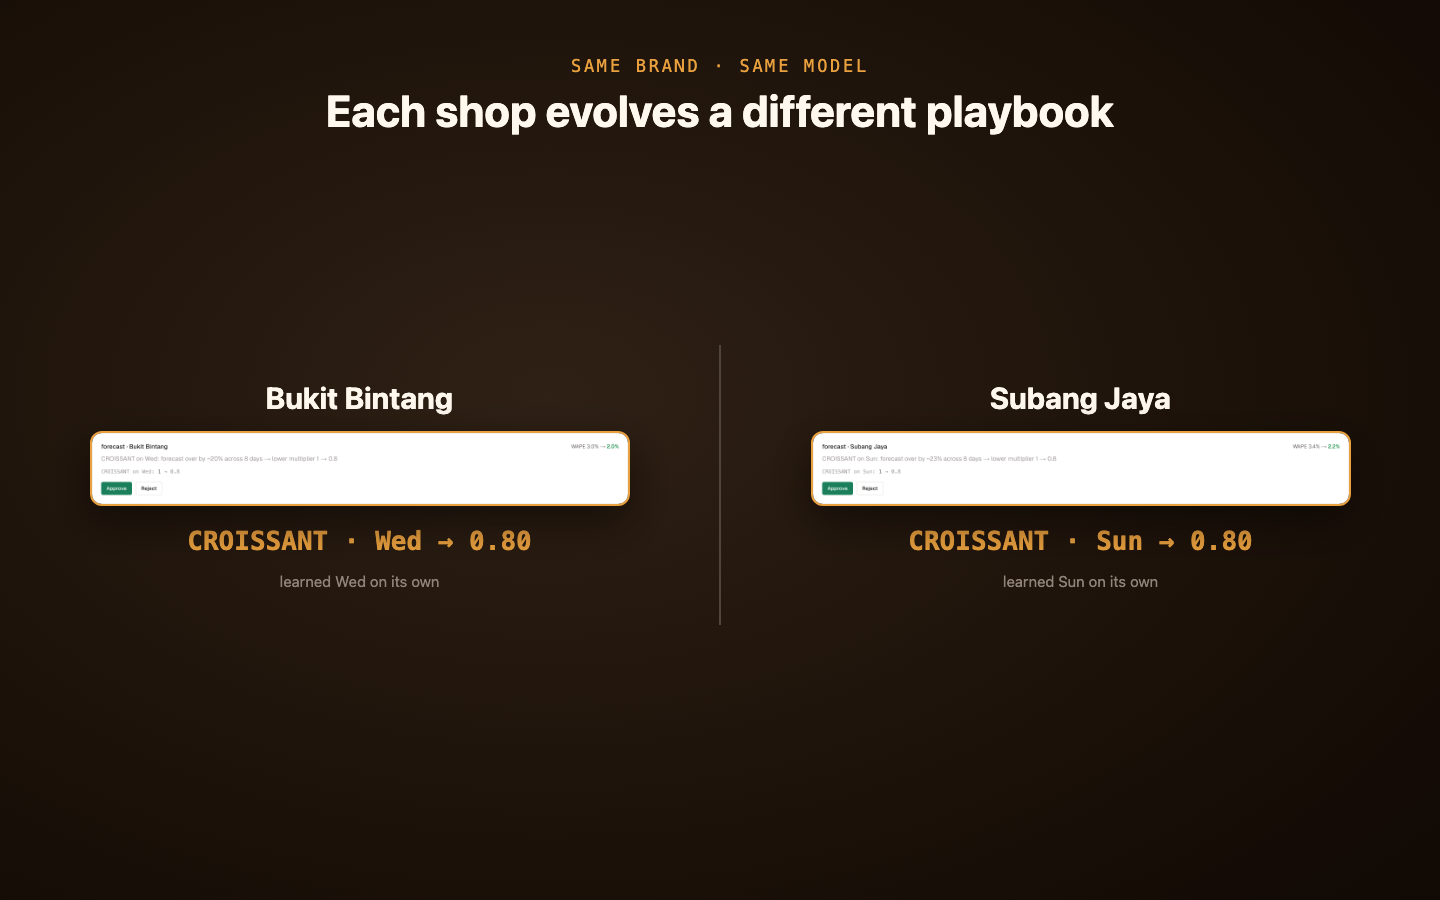
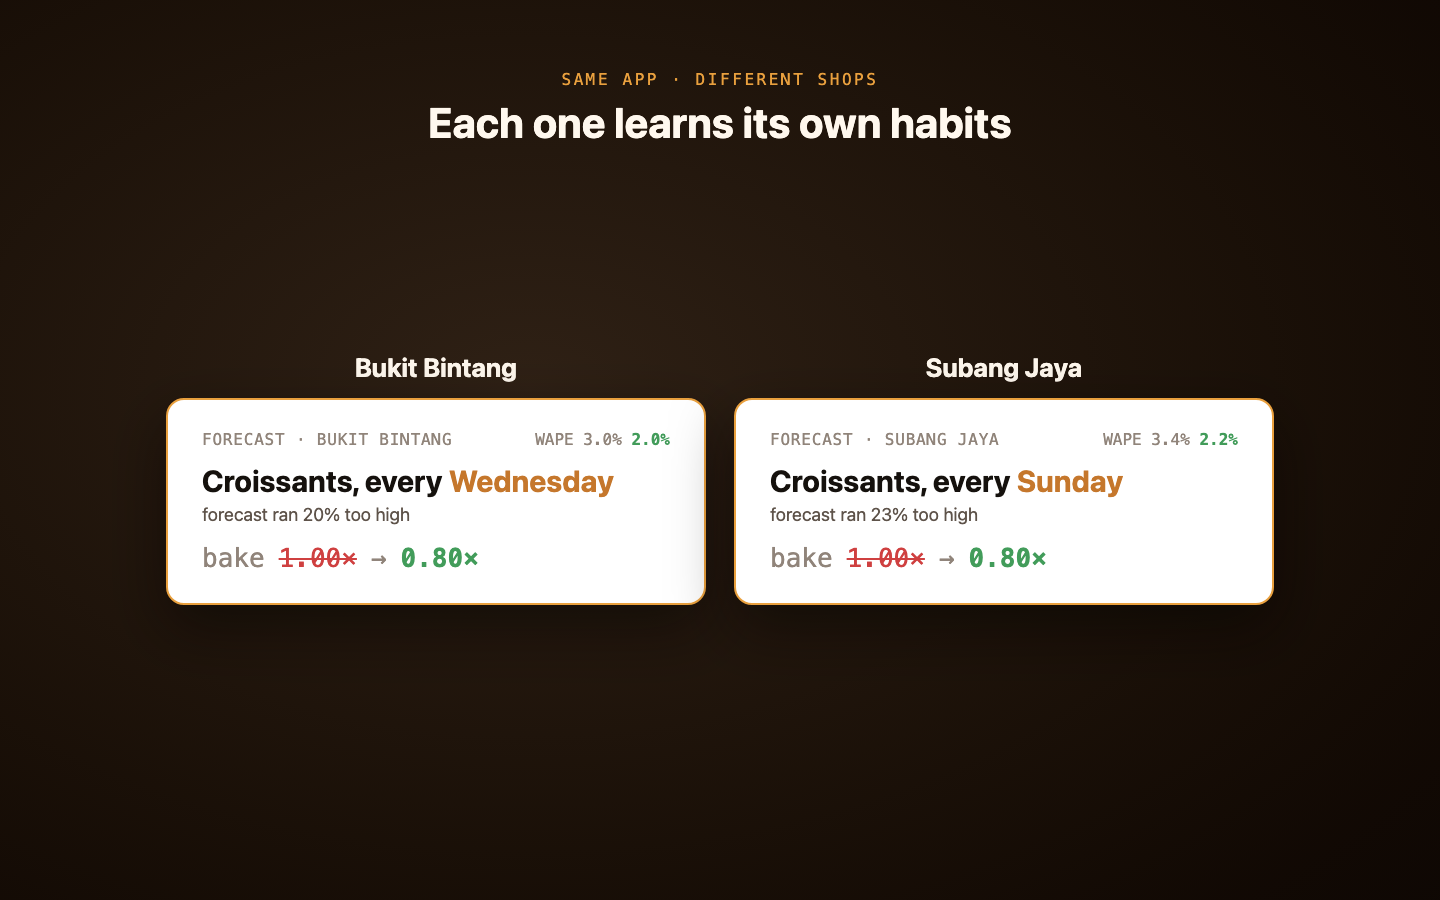
fix(demo): redesign divergence with large readable native cards
The cropped proposal-card screenshots were tiny/unreadable with big dead
space. Replaced with large native cards styled like the app: each shows
shop, day (Wednesday vs Sunday), "forecast ran 20%/23% too high",
bake 1.00x→0.80x, and WAPE improvement. Balanced layout, fully legible.
Cover refreshed from the new scene.

Changed region(s): [[0.0625, 0.3733, 0.9375, 0.6844], [0.2188, 0.0622, 0.7812, 0.1556]]

diff --git a/bakerysense-web/e2e-demo/video/src/HarnessStory.tsx b/bakerysense-web/e2e-demo/video/src/HarnessStory.tsx
@@ -257,35 +257,50 @@ const LoopDiagram: React.FC = () => {
 	);
 };
 
-// ---- Divergence — real screenshots of both proposal cards ------------------
+// ---- Divergence — large readable native cards (styled like the app) --------
 const Divergence: React.FC = () => {
 	const frame = useCurrentFrame();
+	const { fps } = useVideoConfig();
 	const opacity = env(frame, D.diverge);
 	const titleS = interpolate(frame, [0, 18], [0, 1], { extrapolateRight: "clamp" });
-	const card = (src: string, name: string, diff: string, appear: number, align: "left" | "right") => {
-		const s = spring({ frame: frame - appear, fps: 30, config: { damping: 200 } });
+	const card = (
+		shop: string, day: string, pct: string, wapeFrom: string, wapeTo: string, appear: number, align: "left" | "right",
+	) => {
+		const s = spring({ frame: frame - appear, fps, config: { damping: 200 } });
 		const dx = interpolate(s, [0, 1], [align === "left" ? -50 : 50, 0]);
 		return (
-			<div style={{ flex: 1, opacity: s, transform: `translateX(${dx}px)`, display: "flex", flexDirection: "column", alignItems: "center", gap: 16, padding: 26 }}>
-				<div style={{ fontFamily: FONT, fontSize: 28, fontWeight: 700, color: "#fff8ee" }}>{name}</div>
-				<div style={{ width: 560, borderRadius: 12, overflow: "hidden", border: `2px solid ${AMBER}`, boxShadow: "0 16px 44px oklch(0.08 0.02 60 / 0.55)" }}>
-					<Img src={staticFile(src)} style={{ width: "100%", display: "block" }} />
+			<div style={{ width: 540, opacity: s, transform: `translateX(${dx}px)`, background: "#fff", borderRadius: 18, padding: "30px 34px", border: `2px solid ${AMBER}`, boxShadow: "0 24px 60px oklch(0.08 0.02 60 / 0.5)" }}>
+				<div style={{ display: "flex", justifyContent: "space-between", alignItems: "baseline" }}>
+					<div style={{ fontFamily: MONO, fontSize: 16, color: MUTED, textTransform: "uppercase", letterSpacing: "0.05em" }}>forecast · {shop}</div>
+					<div style={{ fontFamily: MONO, fontSize: 16, color: MUTED }}>WAPE <span style={{ color: MUTED }}>{wapeFrom}</span> <span style={{ color: GREEN, fontWeight: 700 }}>{wapeTo}</span></div>
 				</div>
-				<div style={{ fontFamily: MONO, fontSize: 22, fontWeight: 700, color: AMBER }}>{diff}</div>
+				<div style={{ fontFamily: FONT, fontSize: 30, fontWeight: 700, color: INK, marginTop: 14 }}>Croissants, every <span style={{ color: AMBER_D }}>{day}</span></div>
+				<div style={{ fontFamily: FONT, fontSize: 18, color: "oklch(0.45 0.02 60)", marginTop: 6 }}>forecast ran {pct} too high</div>
+				<div style={{ display: "flex", alignItems: "center", gap: 14, marginTop: 18, fontFamily: MONO, fontSize: 26 }}>
+					<span style={{ color: MUTED }}>bake</span>
+					<span style={{ color: RED, textDecoration: "line-through" }}>1.00×</span>
+					<span style={{ color: MUTED }}>→</span>
+					<span style={{ color: GREEN, fontWeight: 800 }}>0.80×</span>
+				</div>
 			</div>
 		);
 	};
 	return (
 		<AbsoluteFill style={{ opacity }}>
 			<Backdrop dark />
-			<div style={{ position: "absolute", top: 50, width: "100%", textAlign: "center", opacity: titleS }}>
+			<div style={{ position: "absolute", top: 70, width: "100%", textAlign: "center", opacity: titleS }}>
 				<div style={{ fontFamily: MONO, fontSize: 16, color: AMBER, letterSpacing: "0.16em", textTransform: "uppercase" }}>Same app · different shops</div>
-				<div style={{ fontFamily: FONT, fontSize: 40, fontWeight: 700, color: "#fff8ee", marginTop: 6 }}>Each one learns its own habits</div>
+				<div style={{ fontFamily: FONT, fontSize: 42, fontWeight: 700, color: "#fff8ee", marginTop: 8 }}>Each one learns its own habits</div>
 			</div>
-			<AbsoluteFill style={{ flexDirection: "row", alignItems: "center", paddingTop: 80 }}>
-				{card("captures/harness-card-2.png", "Bukit Bintang", "eased off Wednesdays", 18, "left")}
-				<div style={{ width: 2, height: 220, background: "oklch(0.4 0.02 60)" }} />
-				{card("captures/harness-card-1.png", "Subang Jaya", "eased off Sundays", 40, "right")}
+			<AbsoluteFill style={{ flexDirection: "row", justifyContent: "center", alignItems: "center", gap: 28, paddingTop: 56 }}>
+				<div style={{ display: "flex", flexDirection: "column", alignItems: "center", gap: 16 }}>
+					<div style={{ fontFamily: FONT, fontSize: 26, fontWeight: 700, color: "#fff8ee" }}>Bukit Bintang</div>
+					{card("Bukit Bintang", "Wednesday", "20%", "3.0%", "2.0%", 18, "left")}
+				</div>
+				<div style={{ display: "flex", flexDirection: "column", alignItems: "center", gap: 16 }}>
+					<div style={{ fontFamily: FONT, fontSize: 26, fontWeight: 700, color: "#fff8ee" }}>Subang Jaya</div>
+					{card("Subang Jaya", "Sunday", "23%", "3.4%", "2.2%", 40, "right")}
+				</div>
 			</AbsoluteFill>
 		</AbsoluteFill>
 	);